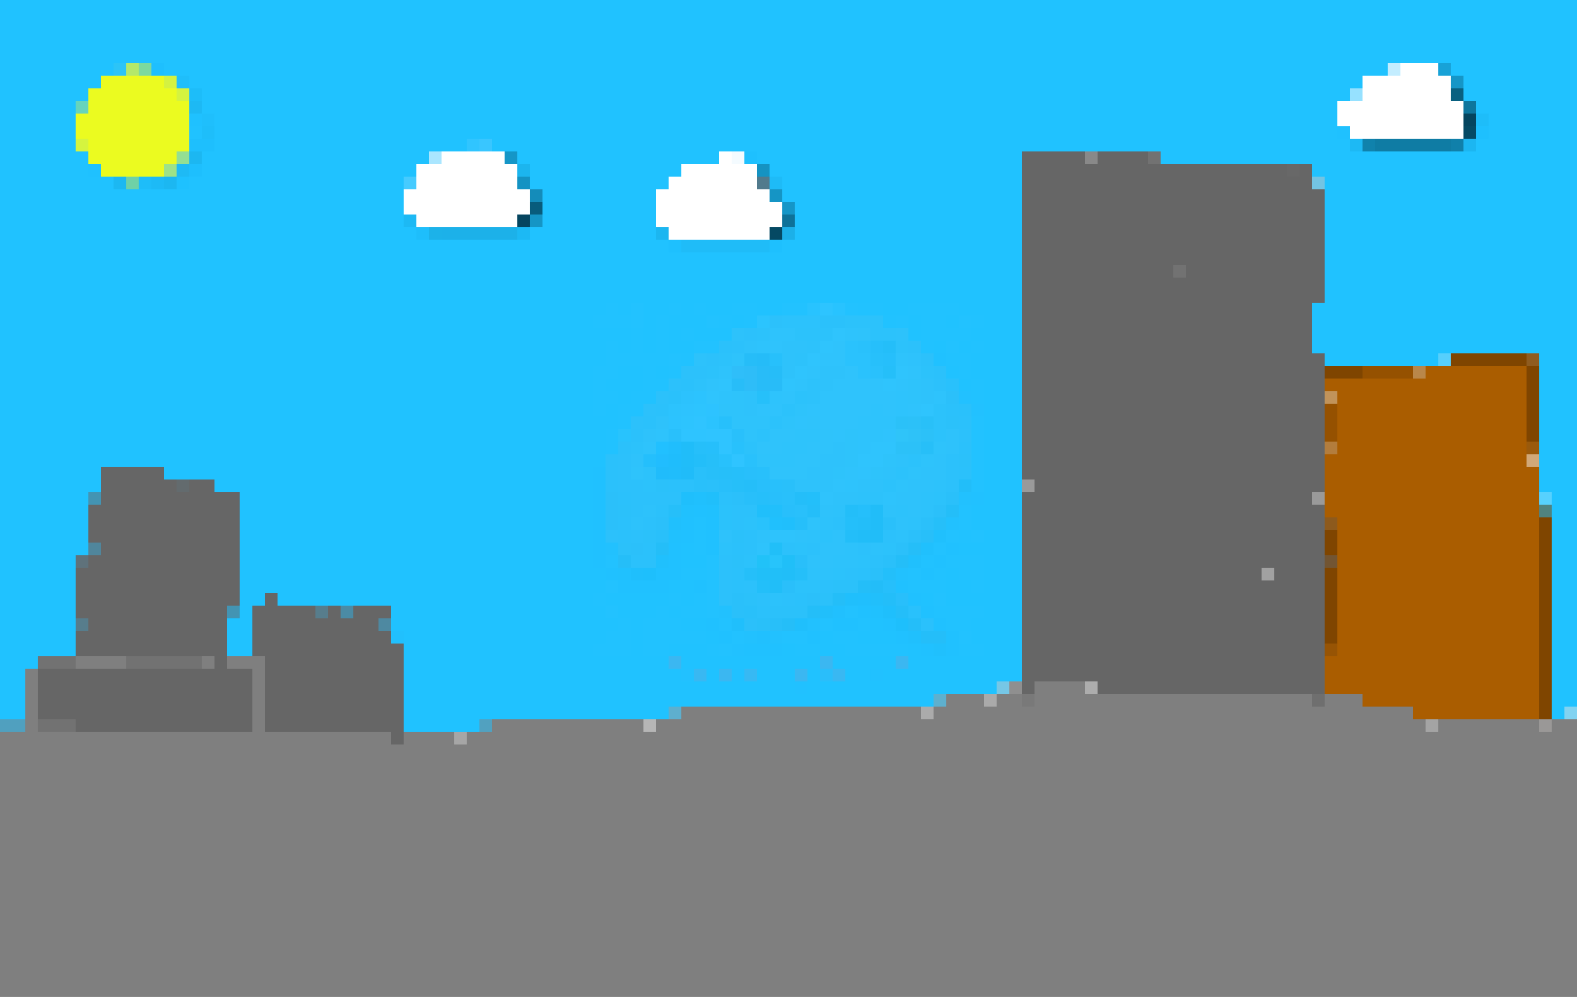
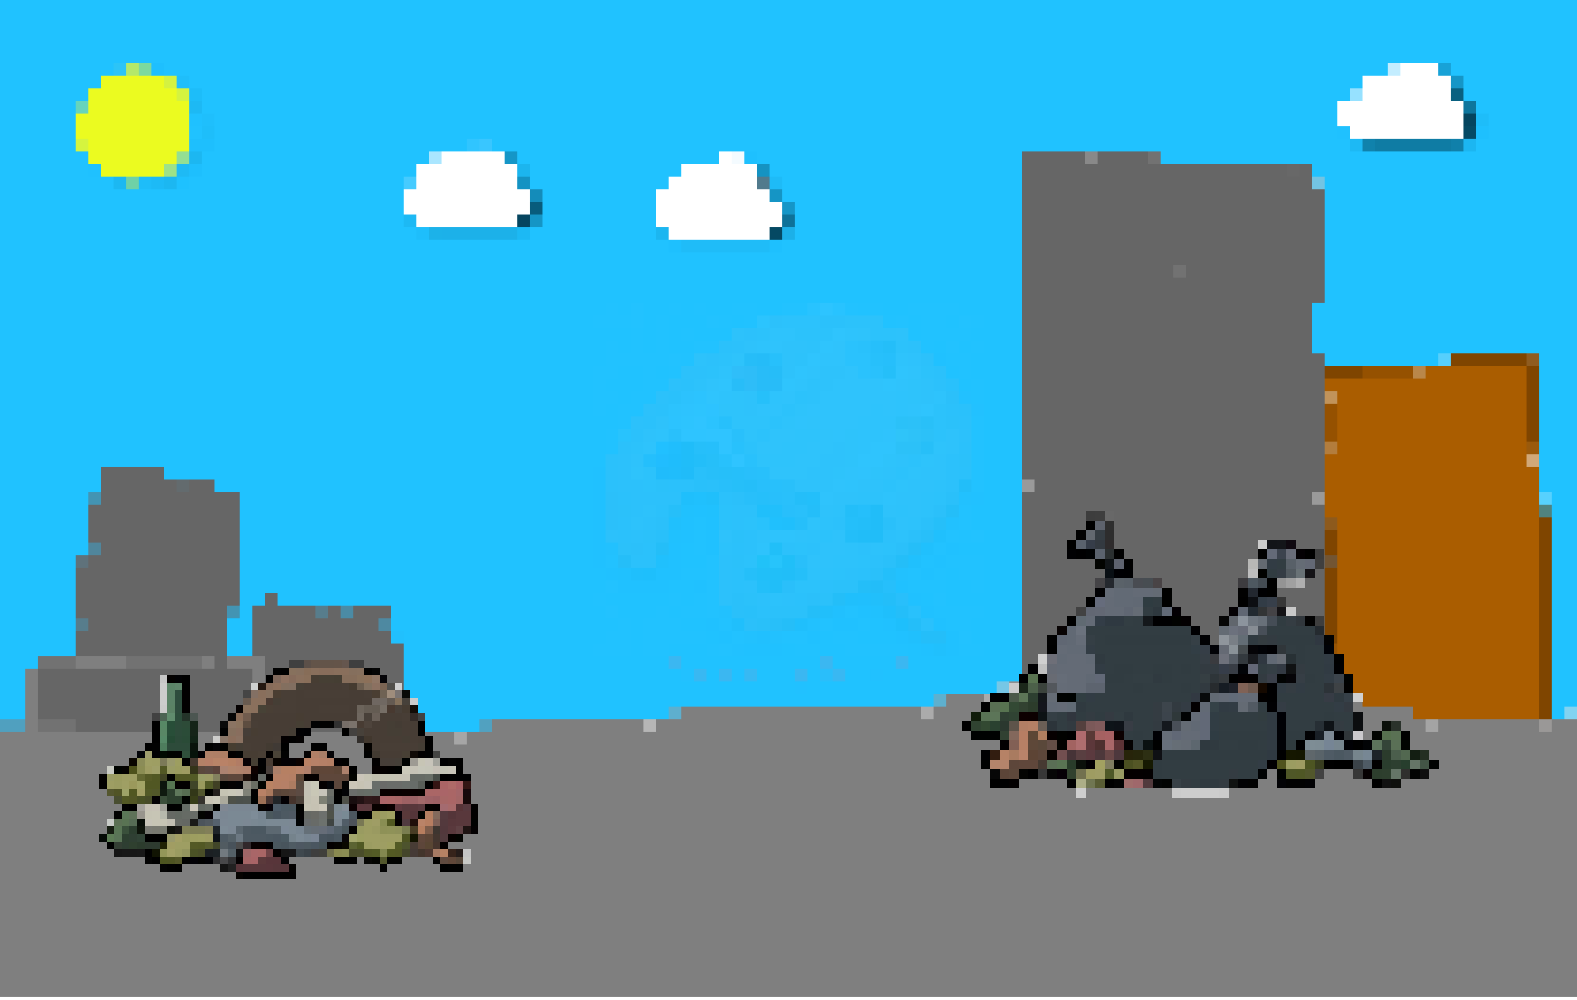
made changes to well and trashpile, added dog

Changed region(s): [[0.5904, 0.496, 0.9321, 0.806], [0.0621, 0.651, 0.3107, 0.899]]

diff --git a/2.Iteration/src/main/java/presentation/TrashpileController.java b/2.Iteration/src/main/java/presentation/TrashpileController.java
@@ -2,11 +2,14 @@ package presentation;
 
 import javafx.fxml.FXML;
 import javafx.scene.control.Button;
+import javafx.scene.image.ImageView;
 
 import java.io.FileNotFoundException;
 
 public class TrashpileController extends SceneController {
 
+    @FXML
+    private ImageView dog;
 
     @FXML
     private Button east;
@@ -16,6 +19,10 @@ public class TrashpileController extends SceneController {
     }
 
     public TrashpileController() throws FileNotFoundException {
+    }
+
+    public void lookDog() throws FileNotFoundException {
+        look("dog");
     }
 
     public void talkHomelessman() throws FileNotFoundException {

diff --git a/2.Iteration/src/main/java/presentation/WellController.java b/2.Iteration/src/main/java/presentation/WellController.java
@@ -2,12 +2,12 @@ package presentation;
 
 import javafx.fxml.FXML;
 import javafx.scene.control.Button;
+import javafx.scene.image.ImageView;
 
 
 import java.io.FileNotFoundException;
 
 public class WellController extends SceneController {
-
 
     @FXML
     private Button south;
@@ -21,6 +21,11 @@ public class WellController extends SceneController {
 
     public void lookBucket() throws FileNotFoundException {
         look("bucket");
+
+    }
+
+    public void lookScarecrow() throws FileNotFoundException {
+        look("scarecrow");
     }
 
     public WellController() throws FileNotFoundException {

diff --git a/2.Iteration/src/main/java/presentation/SceneController.java b/2.Iteration/src/main/java/presentation/SceneController.java
@@ -345,9 +345,6 @@ public class SceneController extends Application {
         System.out.println("inventory loaded");
     }
 
-    public void lookBucket(MouseEvent mouseEvent) {
-    }
-
 
     public void eatSlot1() throws FileNotFoundException, NullPointerException {
         if (game.getPlayer().getInventory().size() > 0) {
